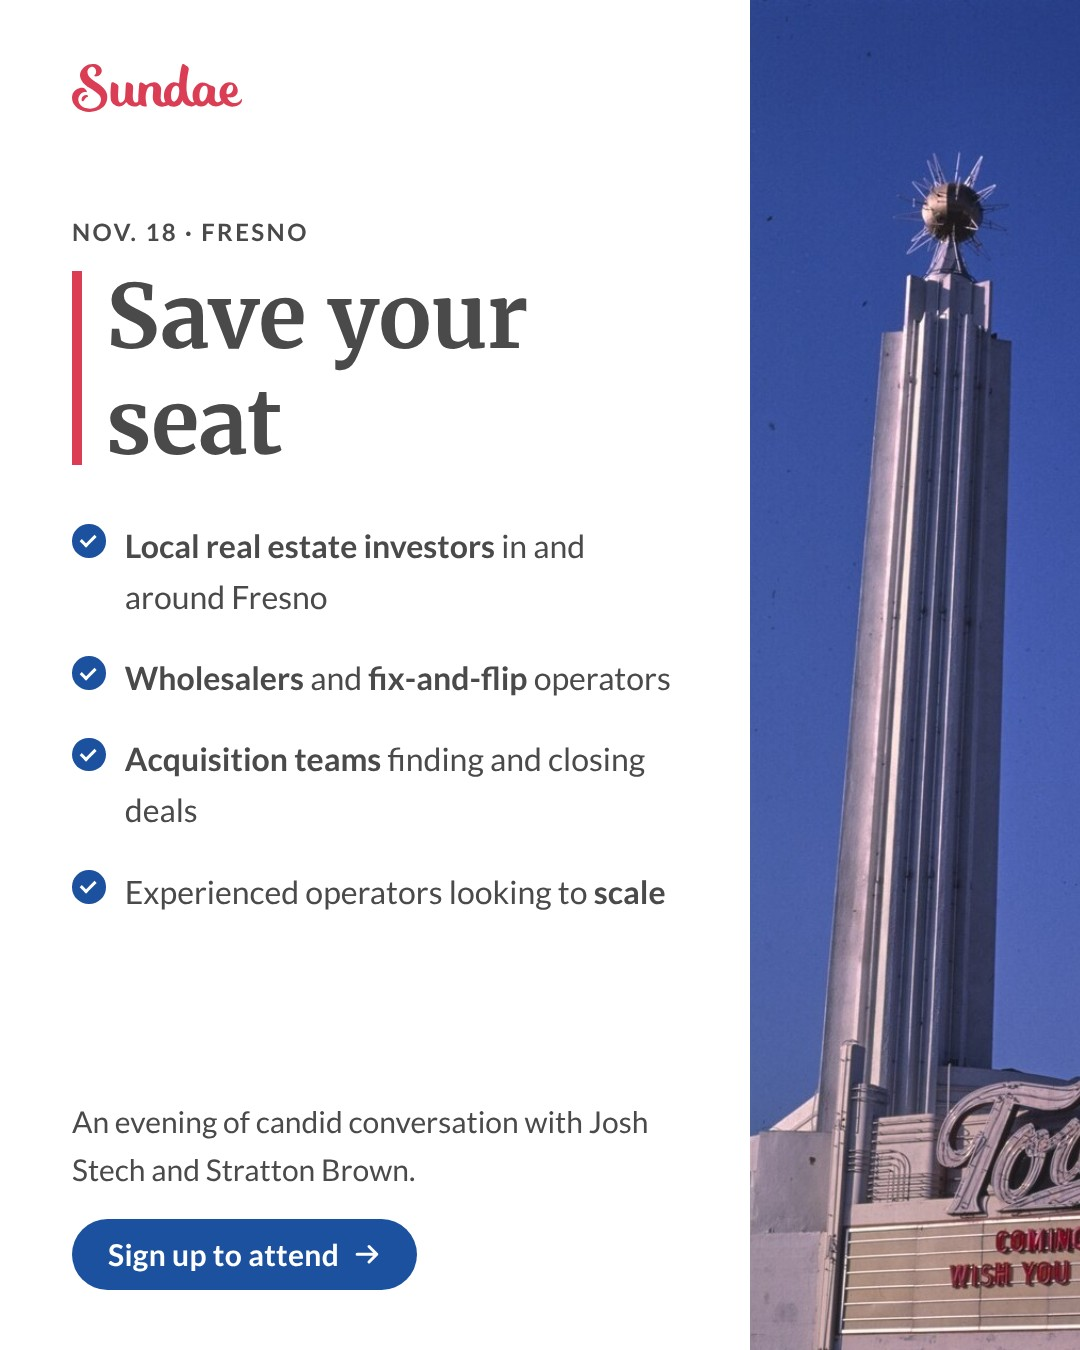
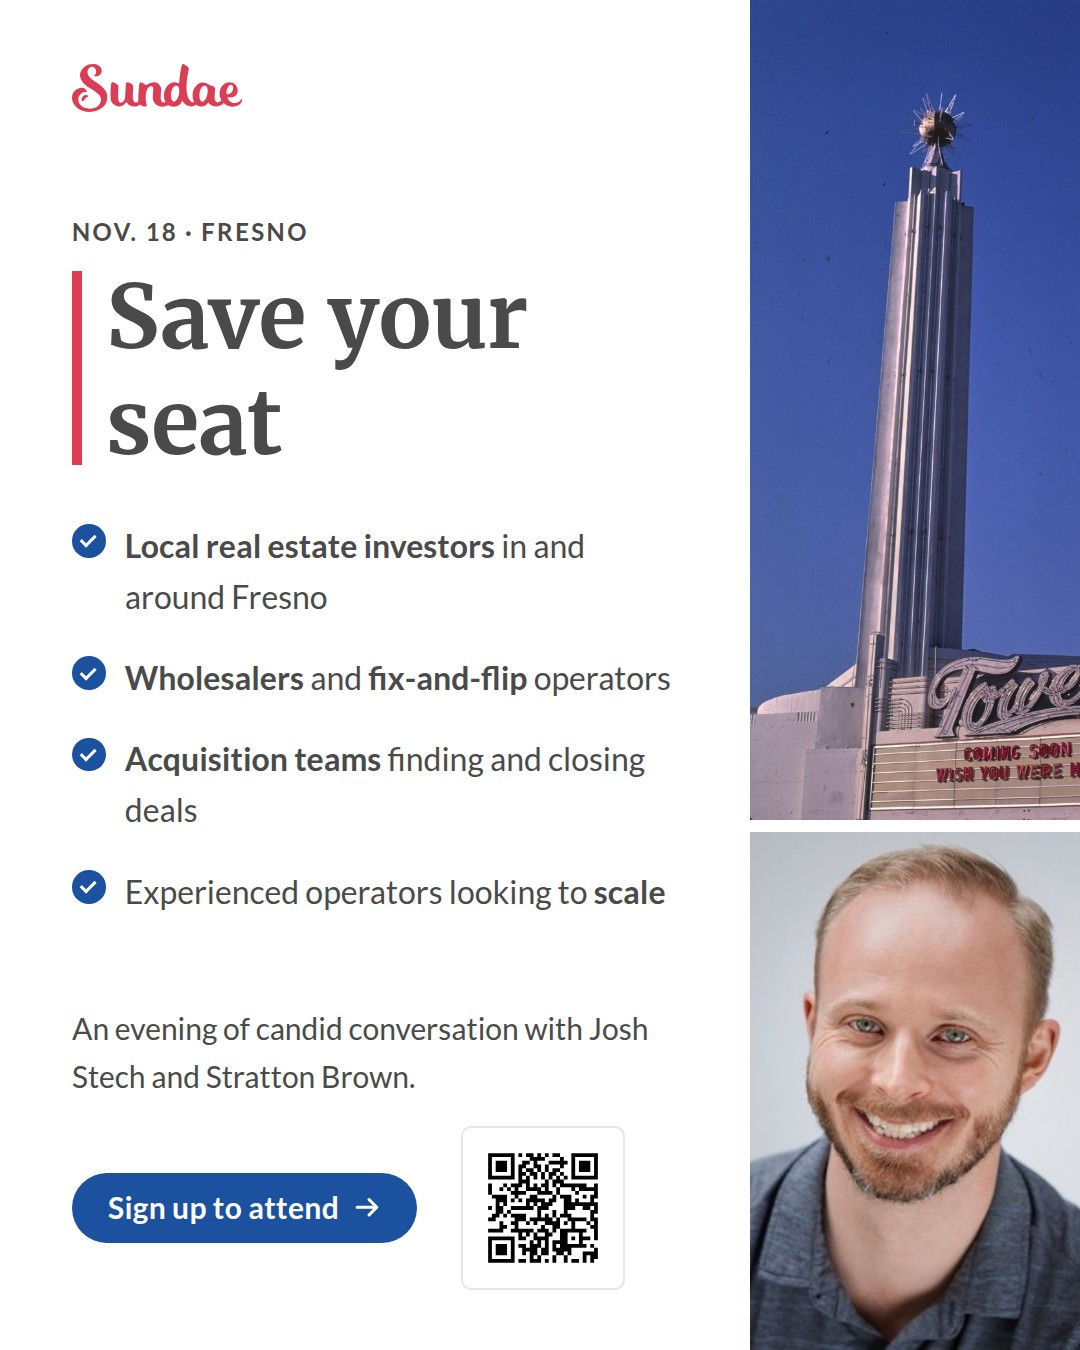
Creative change 20261117-170234-9pqx: events/fresno-2026-11-18/images/08C (done)

diff --git a/engine/creatives/events/fresno-2026-11-18/images/08C.html b/engine/creatives/events/fresno-2026-11-18/images/08C.html
@@ -1,7 +1,8 @@
 <!doctype html><html><head><meta charset="utf-8"><link rel="stylesheet" href="/kit/base.css"><style>
 html,body{width:1080px;height:1350px} .canvas{width:1080px;height:1350px} </style></head>
 <body><div class="canvas">
-<div class="photo" style="right:0;top:0;width:330px;height:1350px;background-image:url(/kit/assets/fresno-2026-11-18-tower-theatre.jpg);background-position:50% center"></div>
+<div class="photo" style="right:0;top:0;width:330px;height:820px;background-image:url(/kit/assets/fresno-2026-11-18-tower-theatre.jpg);background-position:50% 20%"></div>
+<div class="photo" style="right:0;top:832px;width:330px;height:518px;background-image:url(/kit/assets/josh-headshot.jpg);background-position:50% 25%"></div>
 <div style="position:absolute;left:72px;top:64px"><img class="wm" src="/kit/assets/sundae-wordmark-red.svg" alt="Sundae" style="width:170px"></div>
 <div style="position:absolute;left:72px;top:216px;width:600px">
   <div class="eyebrow" style="font-size:24px">Nov. 18 · Fresno</div>
@@ -10,4 +11,7 @@ html,body{width:1080px;height:1350px} .canvas{width:1080px;height:1350px} </styl
     <div class="check" style="font-size:32px;line-height:1.6"><i></i><div><b>Local real estate investors</b> in and around Fresno</div></div><div class="check" style="font-size:32px;line-height:1.6"><i></i><div><b>Wholesalers</b> and <b>fix-and-flip</b> operators</div></div><div class="check" style="font-size:32px;line-height:1.6"><i></i><div><b>Acquisition teams</b> finding and closing deals</div></div><div class="check" style="font-size:32px;line-height:1.6"><i></i><div>Experienced operators looking to <b>scale</b></div></div></div></div>
 <div style="position:absolute;left:72px;bottom:60px;width:600px">
   <div class="body" style="font-size:30px;line-height:1.6;margin-bottom:26px">An evening of candid conversation with Josh Stech and Stratton Brown.</div>
-  <span class="btn" style="font-size:30px">Sign up to attend<svg class="arr" viewBox="0 0 24 24" aria-hidden="true"><path d="M3.5 12h16.5M13.5 5.5 20 12l-6.5 6.5" fill="none" stroke="currentColor" stroke-width="2.6" stroke-linecap="round" stroke-linejoin="round"/></svg></span></div></div></body></html>
+  <div style="display:flex;align-items:center;gap:44px">
+  <span class="btn" style="font-size:30px">Sign up to attend<svg class="arr" viewBox="0 0 24 24" aria-hidden="true"><path d="M3.5 12h16.5M13.5 5.5 20 12l-6.5 6.5" fill="none" stroke="currentColor" stroke-width="2.6" stroke-linecap="round" stroke-linejoin="round"/></svg></span>
+  <div class="qr"><img src="/kit/assets/fresno-2026-11-18-qr-rsvp.svg" alt="QR code to RSVP" style="width:140px;height:140px"></div>
+  </div></div></div></body></html>
